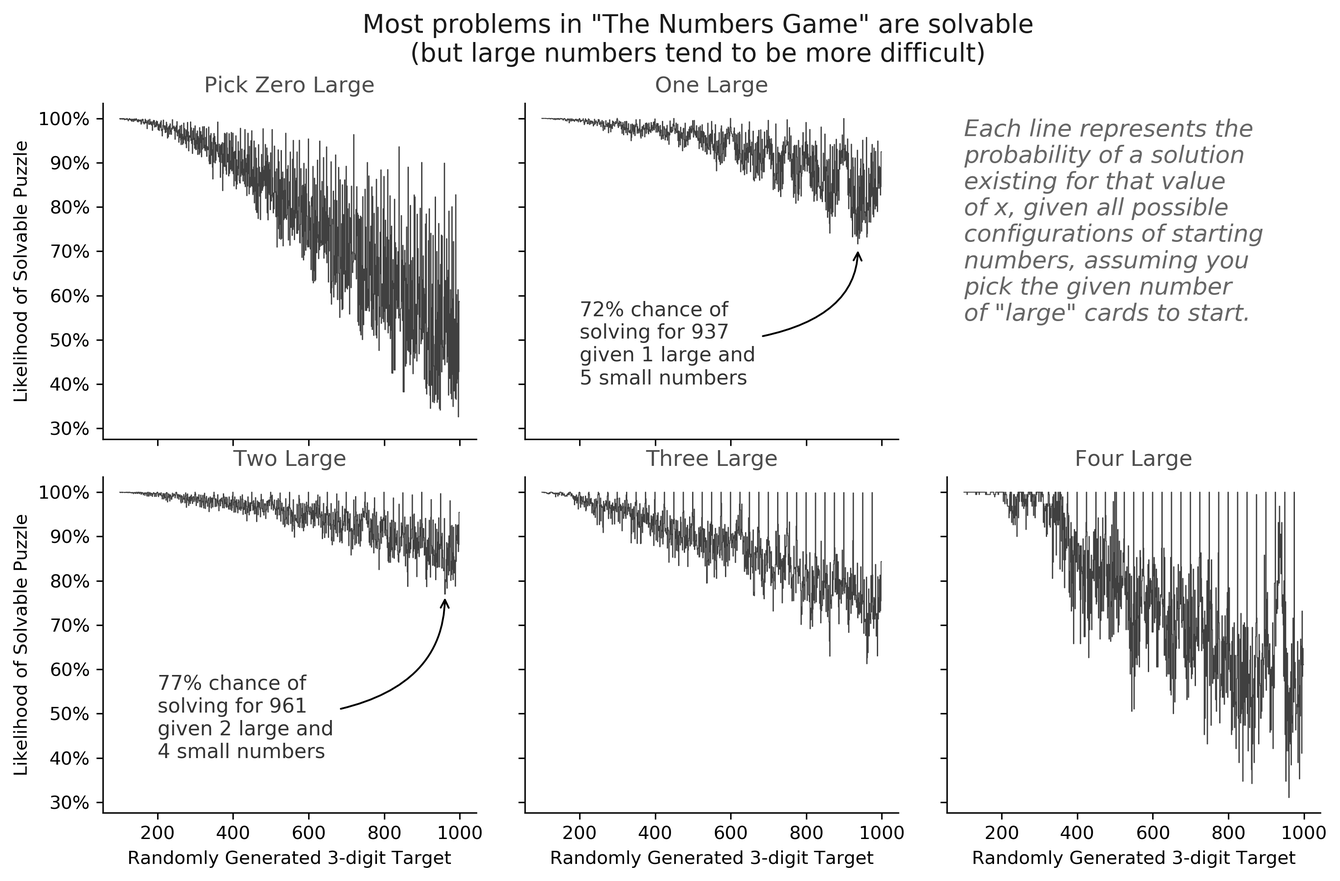
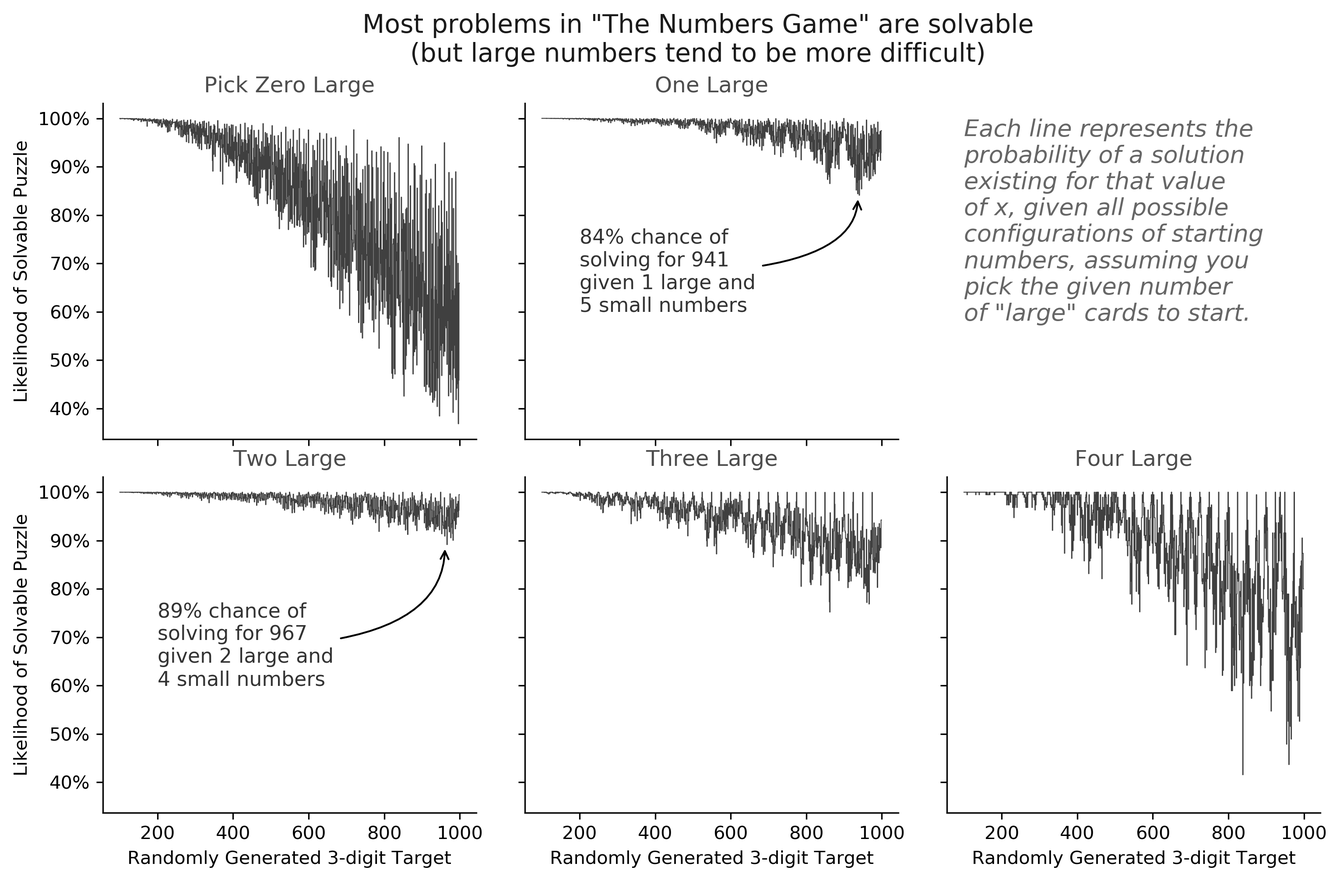
update and code fix for riddler-countdown

diff --git a/riddler-countdown.html b/riddler-countdown.html
@@ -80,10 +80,11 @@ For example, say you ask for one large and five smalls, and you get 2, 3, 7, 8, 
 <br><br>
 <strong>This riddle is twofold. One: What number of “large” cards is most likely to produce a solvable game and what number of “large” cards is least likely to be solvable? Two: What three-digit numbers are most or least likely to be solvable?</strong></p>
 </blockquote>
+<p>Thanks to Laurent Lessard who <a href="https://twitter.com/LaurentLessard/status/1135601818296365064?s=20" target="_blank">pointed out</a> a bug in an earlier version of my code. It's since been updated.</p>
 <h5>Solution</h5>
 <p>This Riddler was quite complicated, but it was also one of my favorites because it combined healthy doses of math, probability, combinatorics, and computer programming. Because of the complexity, I'll start by showing the results, then continue by walking through my solution for readers interested in the details. (Or you can skip to the full code at the bottom of the article!)</p>
 <p>The first part of the question asked us to identify the number of 'large' cards that would be expected to produce the most or least solvable puzzles. Recall that we start the game by selecting either 0, 1, 2, 3, or all 4 large numbers, so let's examine our odds of solving the puzzle given those starting conditions. The table below shows our inputs: the number of large and small numbers, the total number of combinations we could receive, the total number of solvable puzzles that could be created from those inputs, and the percent of solvable puzzles, which is the column we're interested in.</p>
-<p><strong>We should select two large numbers and four small numbers in order to have the best odds of creating a solvable puzzle. If we do so, we create a solvable puzzle roughly 95% of the time. On the other hand, if we wanted to make things difficult for ourselves, we could choose all four large numbers, leaving us with just shy of 80% odds of any valid solution existing.</strong></p>
+<p><strong>We should select two large numbers and four small numbers in order to have the best odds of creating a solvable puzzle. If we do so, we create a solvable puzzle roughly 98% of the time. On the other hand, if we wanted to make things difficult for ourselves, we could choose zero large numbers, leaving us with roughly 84% odds of any valid solution existing.</strong></p>
 <table>
 <thead>
 <tr>
@@ -103,8 +104,8 @@ For example, say you ask for one large and five smalls, and you get 2, 3, 7, 8, 
 <td>1</td>
 <td>38,760</td>
 <td>38,760</td>
-<td>27,619,614</td>
-<td><strong>79.18%</strong></td>
+<td>29,261,974</td>
+<td><strong>83.88%</strong></td>
 </tr>
 <tr>
 <td>1</td>
@@ -112,8 +113,8 @@ For example, say you ask for one large and five smalls, and you get 2, 3, 7, 8, 
 <td>4</td>
 <td>15,504</td>
 <td>62,016</td>
-<td>52,249,824</td>
-<td><strong>93.61%</strong></td>
+<td>54,558,826</td>
+<td><strong>97.75%</strong></td>
 </tr>
 <tr>
 <td>2</td>
@@ -121,8 +122,8 @@ For example, say you ask for one large and five smalls, and you get 2, 3, 7, 8, 
 <td>6</td>
 <td>4845</td>
 <td>29,070</td>
-<td>24,765,395</td>
-<td><strong>94.66%</strong></td>
+<td>25,690,882</td>
+<td><strong>98.20%</strong></td>
 </tr>
 <tr>
 <td>3</td>
@@ -130,8 +131,8 @@ For example, say you ask for one large and five smalls, and you get 2, 3, 7, 8, 
 <td>4</td>
 <td>1140</td>
 <td>4560</td>
-<td>3,636,852</td>
-<td><strong>88.62%</strong></td>
+<td>3,887,884</td>
+<td><strong>94.73%</strong></td>
 </tr>
 <tr>
 <td>4</td>
@@ -139,8 +140,8 @@ For example, say you ask for one large and five smalls, and you get 2, 3, 7, 8, 
 <td>1</td>
 <td>190</td>
 <td>190</td>
-<td>135,068</td>
-<td><strong>78.99%</strong></td>
+<td>154,693</td>
+<td><strong>90.46%</strong></td>
 </tr>
 <tr>
 <td></td>
@@ -148,19 +149,19 @@ For example, say you ask for one large and five smalls, and you get 2, 3, 7, 8, 
 <td></td>
 <td>$average$</td>
 <td>134,596</td>
-<td>108,406,753</td>
-<td><strong>89.49%</strong></td>
+<td>113,554,259</td>
+<td><strong>93.74%</strong></td>
 </tr>
 </tbody>
 </table>
 <p>The second part of the question asked us to identify which three-digit numbers would be more or less likely to be valid solutions. Obviously this depends on our choice of large numbers, so I'll show the likelihood of each number being a valid solution given each of the five initial conditions. In fact, the chart below helps us visualize several key trends.</p>
 <ol>
 <li>We confirm that choosing two large cards gives us the highest average probability of finding a solution. The chart on the bottom left has higher values across all target numbers than any other chart. </li>
-<li>Higher target numbers are harder to solve for. In fact, several values, like 937 and 961 are more difficult to solve, regardless of the number of large cards we choose.</li>
+<li>Higher target numbers are harder to solve for. In fact, several values, like 967 and 863 are more difficult to solve, regardless of the number of large cards we choose.</li>
 <li>"Round" numbers, like 200, 250, 300, etc. are much easier to solve consistently when we choose more large cards. This makes sense, given that we're more likely to find the 50 or 100 card when we select more from that pool, but isn't enough of an incentive to sacrifice the valuable "small" numbers that help us fill in the gaps.</li>
 </ol>
 <p><img class="img-fluid mx-auto d-block" src="../images/20190531-riddler.png"></p>
-<p>Here is a table of the most difficult numbers to solve, given a starting number of large cards. For example, if we choose 1 large card and 5 small cards, and our target number is 937, then across all the different combinations of numbers we could be given, we will be able to solve the puzzle just 77% of the time.</p>
+<p>Here is a table of the most difficult numbers to solve, given a starting number of large cards. For example, if we choose 1 large card and 5 small cards, and our target number is 941, then across all the different combinations of numbers we could be given, we will be able to solve the puzzle just 84% of the time.</p>
 <table>
 <thead>
 <tr>
@@ -173,43 +174,43 @@ For example, say you ask for one large and five smalls, and you get 2, 3, 7, 8, 
 </thead>
 <tbody>
 <tr>
-<td><strong>997, 32.6%</strong></td>
-<td><strong>937, 71.6%</strong></td>
-<td><strong>961, 77.0%</strong></td>
-<td><strong>961, 61.3%</strong></td>
-<td><strong>961, 31.1%</strong></td>
+<td><strong>997, 36.9%</strong></td>
+<td><strong>941, 84.1%</strong></td>
+<td><strong>967, 89.2%</strong></td>
+<td><strong>863, 75.2%</strong></td>
+<td><strong>839, 41.6%</strong></td>
 </tr>
 <tr>
-<td>949, 34.1%</td>
-<td>941, 72.7%</td>
-<td>962, 77.0%</td>
-<td>962, 62.6%</td>
-<td>863, 34.2%</td>
+<td>947, 38.5%</td>
+<td>937, 84.4%</td>
+<td>983, 90.1%</td>
+<td>967, 76.9%</td>
+<td>961, 43.7%</td>
 </tr>
 <tr>
-<td>947, 34.5%</td>
-<td>961, 73.2%</td>
-<td>967, 78.3%</td>
-<td>863, 63.0%</td>
-<td>953, 34.7%</td>
+<td>983, 39.2%</td>
+<td>933, 85.2%</td>
+<td>977, 90.6%</td>
+<td>961, 77.2%</td>
+<td>955, 47.9%</td>
 </tr>
 <tr>
-<td>923, 34.5%</td>
-<td>923, 73.2%</td>
-<td>913, 78.7%</td>
-<td>989, 63.0%</td>
-<td>839, 34.7%</td>
+<td>941, 40.4%</td>
+<td>947, 85.4%</td>
+<td>961, 90.9%</td>
+<td>862, 77.3%</td>
+<td>967, 48.9%</td>
 </tr>
 <tr>
-<td>983, 34.9%</td>
-<td>933, 73.4%</td>
-<td>863, 78.8%</td>
-<td>964, 63.0%</td>
-<td>989, 35.3%</td>
+<td>929, 41.3%</td>
+<td>863, 86.5%</td>
+<td>863, 91.3%</td>
+<td>964, 79.4%</td>
+<td>965, 51.6%</td>
 </tr>
 </tbody>
 </table>
-<p>And here is the list of easiest values to solve. If we choose at least 2 large cards, there are some target values that can be solved with every possible configuration of starting number pools! For example, numbers like 100, 150, 200, and other round numbers become completely solvable once we have enough "large" numbers to work with.</p>
+<p>And here is the list of easiest values to solve. If we choose at least 1 large card, there are some target values that can be solved with every possible configuration of starting numbers! For example, numbers like 100, 150, 200, and other round numbers become completely solvable once we have enough "large" numbers to work with.</p>
 <table>
 <thead>
 <tr>
@@ -222,36 +223,36 @@ For example, say you ask for one large and five smalls, and you get 2, 3, 7, 8, 
 </thead>
 <tbody>
 <tr>
-<td>120, 99.97%</td>
-<td>300, 100.0%</td>
-<td>15 @ 100%</td>
-<td>35 @ 100%</td>
-<td>149 @ 100%</td>
+<td>108, 99.997%</td>
+<td>25 @ 100%</td>
+<td>36 @ 100%</td>
+<td>57 @ 100%</td>
+<td>203 @ 100%</td>
 </tr>
 <tr>
-<td>108, 99.96%</td>
-<td>100, 99.997%</td>
+<td>120, 99.99%</td>
 <td></td>
-<td></td>
-<td></td>
-</tr>
-<tr>
-<td>126, 99.95%</td>
-<td>101, 99.997%</td>
 <td></td>
 <td></td>
 <td></td>
 </tr>
 <tr>
-<td>110, 99.95%</td>
-<td>120, 99.997%</td>
+<td>105, 99.98%</td>
+<td></td>
 <td></td>
 <td></td>
 <td></td>
 </tr>
 <tr>
-<td>105, 99.95%</td>
-<td>600, 99.994%</td>
+<td>104, 99.98%</td>
+<td></td>
+<td></td>
+<td></td>
+<td></td>
+</tr>
+<tr>
+<td>112, 99.98%</td>
+<td></td>
 <td></td>
 <td></td>
 <td></td>
@@ -355,7 +356,7 @@ For example, say you ask for one large and five smalls, and you get 2, 3, 7, 8, 
 </pre></div>
 
 
-<p>For example, the number pool with <code>n_large=1</code> is a list of all 62,016 different six-number pools we could possibly see on the show, such as $(25, 1, 3, 5, 7, 9)$, or $(75, 5, 5, 1, 1, 3)$. Each of those 62,016 number pools has its own solution space: the numbers we could create between 100 and 999 using them. We can create 885 unique target numbers using $(25, 1, 3, 5, 7, 9)$, and just 474 from $(75, 5, 5, 1, 1, 3)$. If it were just those two possibilities, we would say our average probability of success is $\frac{885+474}{2\times{900}} = 75.5\%$. Using our code, we can calculate the probability of solving for all target values starting with all number pools. </p>
+<p>For example, the number pool with <code>n_large=1</code> is a list of all 62,016 different six-number pools we could possibly see on the show, such as $(25, 1, 3, 5, 7, 9)$, or $(75, 5, 5, 1, 1, 3)$. Each of those 62,016 number pools has its own solution space: the numbers we could create between 100 and 999 using them. We can create all 900 unique target numbers using $(25, 1, 3, 5, 7, 9)$, and just 736 from $(75, 5, 5, 1, 1, 3)$. If it were just those two possibilities, we would say our average probability of success is $\frac{900+736}{2\times{900}} = 90.9\%$. Using our code, we can calculate the probability of solving for all target values starting with all number pools. </p>
 <div class="highlight"><pre><span></span><span class="k">def</span> <span class="nf">solvable_percent</span><span class="p">(</span><span class="n">n_large</span><span class="p">,</span> <span class="n">total</span><span class="o">=</span><span class="mi">6</span><span class="p">,</span> <span class="n">low</span><span class="o">=</span><span class="mi">100</span><span class="p">,</span> <span class="n">high</span><span class="o">=</span><span class="mi">999</span><span class="p">):</span>
     <span class="sd">&quot;&quot;&quot;</span>
 <span class="sd">    Returns the percent of random targets that can be solved</span>
@@ -371,14 +372,14 @@ For example, say you ask for one large and five smalls, and you get 2, 3, 7, 8, 
     <span class="k">return</span> <span class="n">numerator</span> <span class="o">/</span> <span class="n">denominator</span>
 
 <span class="o">&gt;&gt;&gt;</span> <span class="n">solvable_percent</span><span class="p">(</span><span class="n">n_large</span><span class="o">=</span><span class="mi">2</span><span class="p">)</span>
-<span class="mf">0.9465808584642434</span>
+<span class="mf">0.9819547452509269</span>
 </pre></div>
 
 
 <p>And this function, built slowly from its humble roots of comparing two numbers, allows us to solve the problem! We simply call this function with a given number of large cards, and it returns the likelihood that we would see a solvable puzzle from all possible number pools and random targets. Importantly, this is an exact solution - no simulation required! </p>
 <p>The second part of the question asked us to identify the target values that were most likely to be solvable. Up to this point, we didn't particularly care "how solvable" a target value was; we only cared that there was a way to solve it. But using our functions from above, we can tally the number of target values that are most and least likely to occur given our starting number pools, and our work here is done. The full code is available below.</p>
 <h5>Full Code</h5>
-<p>This was an extremely fun problem to work on, and finding a way to explore the hundreds of millions of combinations simply and quickly was a challenge. I think there are a few further optimizations to explore, and perhaps some functions to rename, now that I know how everything should work, but the process of building this was extremely enjoyable. Let me know if you find ways to improve this!</p>
+<p>This was an extremely fun problem to work on, and finding a way to explore the hundreds of millions of combinations simply and quickly was a challenge. There are certainly further optimizations to explore, such as simplifying the code for the four, five and six functions, now that I know how everything should work. But the process of building this was extremely enjoyable. Let me know if you find ways to improve this!</p>
 <div class="highlight"><pre><span></span><span class="c1"># -*- coding: utf-8 -*-</span>
 <span class="sd">&quot;&quot;&quot;</span>
 <span class="sd">Solves the Riddler Classic from May 31, 2019</span>
@@ -431,6 +432,10 @@ For example, say you ask for one large and five smalls, and you get 2, 3, 7, 8, 
         <span class="o">*</span><span class="p">[</span><span class="n">two</span><span class="p">(</span><span class="n">x</span><span class="p">,</span> <span class="n">b</span><span class="p">)</span> <span class="k">for</span> <span class="n">x</span> <span class="ow">in</span> <span class="n">three</span><span class="p">(</span><span class="n">c</span><span class="p">,</span> <span class="n">d</span><span class="p">,</span> <span class="n">a</span><span class="p">)],</span>
         <span class="o">*</span><span class="p">[</span><span class="n">two</span><span class="p">(</span><span class="n">x</span><span class="p">,</span> <span class="n">c</span><span class="p">)</span> <span class="k">for</span> <span class="n">x</span> <span class="ow">in</span> <span class="n">three</span><span class="p">(</span><span class="n">d</span><span class="p">,</span> <span class="n">a</span><span class="p">,</span> <span class="n">b</span><span class="p">)],</span>
         <span class="o">*</span><span class="p">[</span><span class="n">two</span><span class="p">(</span><span class="n">x</span><span class="p">,</span> <span class="n">d</span><span class="p">)</span> <span class="k">for</span> <span class="n">x</span> <span class="ow">in</span> <span class="n">three</span><span class="p">(</span><span class="n">a</span><span class="p">,</span> <span class="n">b</span><span class="p">,</span> <span class="n">c</span><span class="p">)],</span>
+
+        <span class="o">*</span><span class="p">[</span><span class="n">two</span><span class="p">(</span><span class="n">x</span><span class="p">,</span> <span class="n">y</span><span class="p">)</span> <span class="k">for</span> <span class="n">x</span> <span class="ow">in</span> <span class="n">two</span><span class="p">(</span><span class="n">a</span><span class="p">,</span> <span class="n">b</span><span class="p">)</span> <span class="k">for</span> <span class="n">y</span> <span class="ow">in</span> <span class="n">two</span><span class="p">(</span><span class="n">c</span><span class="p">,</span> <span class="n">d</span><span class="p">)],</span>
+        <span class="o">*</span><span class="p">[</span><span class="n">two</span><span class="p">(</span><span class="n">x</span><span class="p">,</span> <span class="n">y</span><span class="p">)</span> <span class="k">for</span> <span class="n">x</span> <span class="ow">in</span> <span class="n">two</span><span class="p">(</span><span class="n">a</span><span class="p">,</span> <span class="n">c</span><span class="p">)</span> <span class="k">for</span> <span class="n">y</span> <span class="ow">in</span> <span class="n">two</span><span class="p">(</span><span class="n">b</span><span class="p">,</span> <span class="n">d</span><span class="p">)],</span>
+        <span class="o">*</span><span class="p">[</span><span class="n">two</span><span class="p">(</span><span class="n">x</span><span class="p">,</span> <span class="n">y</span><span class="p">)</span> <span class="k">for</span> <span class="n">x</span> <span class="ow">in</span> <span class="n">two</span><span class="p">(</span><span class="n">a</span><span class="p">,</span> <span class="n">d</span><span class="p">)</span> <span class="k">for</span> <span class="n">y</span> <span class="ow">in</span> <span class="n">two</span><span class="p">(</span><span class="n">b</span><span class="p">,</span> <span class="n">c</span><span class="p">)],</span>
     <span class="p">])</span>
 
 <span class="nd">@lru_cache</span><span class="p">(</span><span class="n">maxsize</span><span class="o">=</span><span class="bp">None</span><span class="p">)</span>
@@ -441,6 +446,17 @@ For example, say you ask for one large and five smalls, and you get 2, 3, 7, 8, 
         <span class="o">*</span><span class="p">[</span><span class="n">two</span><span class="p">(</span><span class="n">x</span><span class="p">,</span> <span class="n">c</span><span class="p">)</span> <span class="k">for</span> <span class="n">x</span> <span class="ow">in</span> <span class="n">four</span><span class="p">(</span><span class="n">d</span><span class="p">,</span> <span class="n">e</span><span class="p">,</span> <span class="n">a</span><span class="p">,</span> <span class="n">b</span><span class="p">)],</span>
         <span class="o">*</span><span class="p">[</span><span class="n">two</span><span class="p">(</span><span class="n">x</span><span class="p">,</span> <span class="n">d</span><span class="p">)</span> <span class="k">for</span> <span class="n">x</span> <span class="ow">in</span> <span class="n">four</span><span class="p">(</span><span class="n">e</span><span class="p">,</span> <span class="n">a</span><span class="p">,</span> <span class="n">b</span><span class="p">,</span> <span class="n">c</span><span class="p">)],</span>
         <span class="o">*</span><span class="p">[</span><span class="n">two</span><span class="p">(</span><span class="n">x</span><span class="p">,</span> <span class="n">e</span><span class="p">)</span> <span class="k">for</span> <span class="n">x</span> <span class="ow">in</span> <span class="n">four</span><span class="p">(</span><span class="n">a</span><span class="p">,</span> <span class="n">b</span><span class="p">,</span> <span class="n">c</span><span class="p">,</span> <span class="n">d</span><span class="p">)],</span>
+
+        <span class="o">*</span><span class="p">[</span><span class="n">two</span><span class="p">(</span><span class="n">x</span><span class="p">,</span> <span class="n">y</span><span class="p">)</span> <span class="k">for</span> <span class="n">x</span> <span class="ow">in</span> <span class="n">two</span><span class="p">(</span><span class="n">a</span><span class="p">,</span> <span class="n">b</span><span class="p">)</span> <span class="k">for</span> <span class="n">y</span> <span class="ow">in</span> <span class="n">three</span><span class="p">(</span><span class="n">c</span><span class="p">,</span> <span class="n">d</span><span class="p">,</span> <span class="n">e</span><span class="p">)],</span>
+        <span class="o">*</span><span class="p">[</span><span class="n">two</span><span class="p">(</span><span class="n">x</span><span class="p">,</span> <span class="n">y</span><span class="p">)</span> <span class="k">for</span> <span class="n">x</span> <span class="ow">in</span> <span class="n">two</span><span class="p">(</span><span class="n">a</span><span class="p">,</span> <span class="n">c</span><span class="p">)</span> <span class="k">for</span> <span class="n">y</span> <span class="ow">in</span> <span class="n">three</span><span class="p">(</span><span class="n">b</span><span class="p">,</span> <span class="n">d</span><span class="p">,</span> <span class="n">e</span><span class="p">)],</span>
+        <span class="o">*</span><span class="p">[</span><span class="n">two</span><span class="p">(</span><span class="n">x</span><span class="p">,</span> <span class="n">y</span><span class="p">)</span> <span class="k">for</span> <span class="n">x</span> <span class="ow">in</span> <span class="n">two</span><span class="p">(</span><span class="n">a</span><span class="p">,</span> <span class="n">d</span><span class="p">)</span> <span class="k">for</span> <span class="n">y</span> <span class="ow">in</span> <span class="n">three</span><span class="p">(</span><span class="n">b</span><span class="p">,</span> <span class="n">c</span><span class="p">,</span> <span class="n">e</span><span class="p">)],</span>
+        <span class="o">*</span><span class="p">[</span><span class="n">two</span><span class="p">(</span><span class="n">x</span><span class="p">,</span> <span class="n">y</span><span class="p">)</span> <span class="k">for</span> <span class="n">x</span> <span class="ow">in</span> <span class="n">two</span><span class="p">(</span><span class="n">a</span><span class="p">,</span> <span class="n">e</span><span class="p">)</span> <span class="k">for</span> <span class="n">y</span> <span class="ow">in</span> <span class="n">three</span><span class="p">(</span><span class="n">b</span><span class="p">,</span> <span class="n">c</span><span class="p">,</span> <span class="n">d</span><span class="p">)],</span>
+        <span class="o">*</span><span class="p">[</span><span class="n">two</span><span class="p">(</span><span class="n">x</span><span class="p">,</span> <span class="n">y</span><span class="p">)</span> <span class="k">for</span> <span class="n">x</span> <span class="ow">in</span> <span class="n">two</span><span class="p">(</span><span class="n">b</span><span class="p">,</span> <span class="n">c</span><span class="p">)</span> <span class="k">for</span> <span class="n">y</span> <span class="ow">in</span> <span class="n">three</span><span class="p">(</span><span class="n">a</span><span class="p">,</span> <span class="n">d</span><span class="p">,</span> <span class="n">e</span><span class="p">)],</span>
+        <span class="o">*</span><span class="p">[</span><span class="n">two</span><span class="p">(</span><span class="n">x</span><span class="p">,</span> <span class="n">y</span><span class="p">)</span> <span class="k">for</span> <span class="n">x</span> <span class="ow">in</span> <span class="n">two</span><span class="p">(</span><span class="n">b</span><span class="p">,</span> <span class="n">d</span><span class="p">)</span> <span class="k">for</span> <span class="n">y</span> <span class="ow">in</span> <span class="n">three</span><span class="p">(</span><span class="n">a</span><span class="p">,</span> <span class="n">c</span><span class="p">,</span> <span class="n">e</span><span class="p">)],</span>
+        <span class="o">*</span><span class="p">[</span><span class="n">two</span><span class="p">(</span><span class="n">x</span><span class="p">,</span> <span class="n">y</span><span class="p">)</span> <span class="k">for</span> <span class="n">x</span> <span class="ow">in</span> <span class="n">two</span><span class="p">(</span><span class="n">b</span><span class="p">,</span> <span class="n">e</span><span class="p">)</span> <span class="k">for</span> <span class="n">y</span> <span class="ow">in</span> <span class="n">three</span><span class="p">(</span><span class="n">a</span><span class="p">,</span> <span class="n">c</span><span class="p">,</span> <span class="n">d</span><span class="p">)],</span>
+        <span class="o">*</span><span class="p">[</span><span class="n">two</span><span class="p">(</span><span class="n">x</span><span class="p">,</span> <span class="n">y</span><span class="p">)</span> <span class="k">for</span> <span class="n">x</span> <span class="ow">in</span> <span class="n">two</span><span class="p">(</span><span class="n">c</span><span class="p">,</span> <span class="n">d</span><span class="p">)</span> <span class="k">for</span> <span class="n">y</span> <span class="ow">in</span> <span class="n">three</span><span class="p">(</span><span class="n">a</span><span class="p">,</span> <span class="n">b</span><span class="p">,</span> <span class="n">e</span><span class="p">)],</span>
+        <span class="o">*</span><span class="p">[</span><span class="n">two</span><span class="p">(</span><span class="n">x</span><span class="p">,</span> <span class="n">y</span><span class="p">)</span> <span class="k">for</span> <span class="n">x</span> <span class="ow">in</span> <span class="n">two</span><span class="p">(</span><span class="n">c</span><span class="p">,</span> <span class="n">e</span><span class="p">)</span> <span class="k">for</span> <span class="n">y</span> <span class="ow">in</span> <span class="n">three</span><span class="p">(</span><span class="n">a</span><span class="p">,</span> <span class="n">b</span><span class="p">,</span> <span class="n">d</span><span class="p">)],</span>
+        <span class="o">*</span><span class="p">[</span><span class="n">two</span><span class="p">(</span><span class="n">x</span><span class="p">,</span> <span class="n">y</span><span class="p">)</span> <span class="k">for</span> <span class="n">x</span> <span class="ow">in</span> <span class="n">two</span><span class="p">(</span><span class="n">d</span><span class="p">,</span> <span class="n">e</span><span class="p">)</span> <span class="k">for</span> <span class="n">y</span> <span class="ow">in</span> <span class="n">three</span><span class="p">(</span><span class="n">a</span><span class="p">,</span> <span class="n">b</span><span class="p">,</span> <span class="n">c</span><span class="p">)],</span>
     <span class="p">])</span>
 
 <span class="nd">@lru_cache</span><span class="p">(</span><span class="n">maxsize</span><span class="o">=</span><span class="bp">None</span><span class="p">)</span>
@@ -452,6 +468,33 @@ For example, say you ask for one large and five smalls, and you get 2, 3, 7, 8, 
         <span class="o">*</span><span class="p">[</span><span class="n">two</span><span class="p">(</span><span class="n">x</span><span class="p">,</span> <span class="n">d</span><span class="p">)</span> <span class="k">for</span> <span class="n">x</span> <span class="ow">in</span> <span class="n">five</span><span class="p">(</span><span class="n">e</span><span class="p">,</span> <span class="n">f</span><span class="p">,</span> <span class="n">a</span><span class="p">,</span> <span class="n">b</span><span class="p">,</span> <span class="n">c</span><span class="p">)],</span>
         <span class="o">*</span><span class="p">[</span><span class="n">two</span><span class="p">(</span><span class="n">x</span><span class="p">,</span> <span class="n">e</span><span class="p">)</span> <span class="k">for</span> <span class="n">x</span> <span class="ow">in</span> <span class="n">five</span><span class="p">(</span><span class="n">f</span><span class="p">,</span> <span class="n">a</span><span class="p">,</span> <span class="n">b</span><span class="p">,</span> <span class="n">c</span><span class="p">,</span> <span class="n">d</span><span class="p">)],</span>
         <span class="o">*</span><span class="p">[</span><span class="n">two</span><span class="p">(</span><span class="n">x</span><span class="p">,</span> <span class="n">f</span><span class="p">)</span> <span class="k">for</span> <span class="n">x</span> <span class="ow">in</span> <span class="n">five</span><span class="p">(</span><span class="n">a</span><span class="p">,</span> <span class="n">b</span><span class="p">,</span> <span class="n">c</span><span class="p">,</span> <span class="n">d</span><span class="p">,</span> <span class="n">e</span><span class="p">)],</span>
+
+        <span class="o">*</span><span class="p">[</span><span class="n">two</span><span class="p">(</span><span class="n">x</span><span class="p">,</span> <span class="n">y</span><span class="p">)</span> <span class="k">for</span> <span class="n">x</span> <span class="ow">in</span> <span class="n">two</span><span class="p">(</span><span class="n">a</span><span class="p">,</span> <span class="n">b</span><span class="p">)</span> <span class="k">for</span> <span class="n">y</span> <span class="ow">in</span> <span class="n">four</span><span class="p">(</span><span class="n">c</span><span class="p">,</span> <span class="n">d</span><span class="p">,</span> <span class="n">e</span><span class="p">,</span> <span class="n">f</span><span class="p">)],</span>
+        <span class="o">*</span><span class="p">[</span><span class="n">two</span><span class="p">(</span><span class="n">x</span><span class="p">,</span> <span class="n">y</span><span class="p">)</span> <span class="k">for</span> <span class="n">x</span> <span class="ow">in</span> <span class="n">two</span><span class="p">(</span><span class="n">a</span><span class="p">,</span> <span class="n">c</span><span class="p">)</span> <span class="k">for</span> <span class="n">y</span> <span class="ow">in</span> <span class="n">four</span><span class="p">(</span><span class="n">b</span><span class="p">,</span> <span class="n">d</span><span class="p">,</span> <span class="n">e</span><span class="p">,</span> <span class="n">f</span><span class="p">)],</span>
+        <span class="o">*</span><span class="p">[</span><span class="n">two</span><span class="p">(</span><span class="n">x</span><span class="p">,</span> <span class="n">y</span><span class="p">)</span> <span class="k">for</span> <span class="n">x</span> <span class="ow">in</span> <span class="n">two</span><span class="p">(</span><span class="n">a</span><span class="p">,</span> <span class="n">d</span><span class="p">)</span> <span class="k">for</span> <span class="n">y</span> <span class="ow">in</span> <span class="n">four</span><span class="p">(</span><span class="n">b</span><span class="p">,</span> <span class="n">c</span><span class="p">,</span> <span class="n">e</span><span class="p">,</span> <span class="n">f</span><span class="p">)],</span>
+        <span class="o">*</span><span class="p">[</span><span class="n">two</span><span class="p">(</span><span class="n">x</span><span class="p">,</span> <span class="n">y</span><span class="p">)</span> <span class="k">for</span> <span class="n">x</span> <span class="ow">in</span> <span class="n">two</span><span class="p">(</span><span class="n">a</span><span class="p">,</span> <span class="n">e</span><span class="p">)</span> <span class="k">for</span> <span class="n">y</span> <span class="ow">in</span> <span class="n">four</span><span class="p">(</span><span class="n">b</span><span class="p">,</span> <span class="n">c</span><span class="p">,</span> <span class="n">d</span><span class="p">,</span> <span class="n">f</span><span class="p">)],</span>
+        <span class="o">*</span><span class="p">[</span><span class="n">two</span><span class="p">(</span><span class="n">x</span><span class="p">,</span> <span class="n">y</span><span class="p">)</span> <span class="k">for</span> <span class="n">x</span> <span class="ow">in</span> <span class="n">two</span><span class="p">(</span><span class="n">a</span><span class="p">,</span> <span class="n">f</span><span class="p">)</span> <span class="k">for</span> <span class="n">y</span> <span class="ow">in</span> <span class="n">four</span><span class="p">(</span><span class="n">b</span><span class="p">,</span> <span class="n">c</span><span class="p">,</span> <span class="n">d</span><span class="p">,</span> <span class="n">e</span><span class="p">)],</span>
+        <span class="o">*</span><span class="p">[</span><span class="n">two</span><span class="p">(</span><span class="n">x</span><span class="p">,</span> <span class="n">y</span><span class="p">)</span> <span class="k">for</span> <span class="n">x</span> <span class="ow">in</span> <span class="n">two</span><span class="p">(</span><span class="n">b</span><span class="p">,</span> <span class="n">c</span><span class="p">)</span> <span class="k">for</span> <span class="n">y</span> <span class="ow">in</span> <span class="n">four</span><span class="p">(</span><span class="n">a</span><span class="p">,</span> <span class="n">d</span><span class="p">,</span> <span class="n">e</span><span class="p">,</span> <span class="n">f</span><span class="p">)],</span>
+        <span class="o">*</span><span class="p">[</span><span class="n">two</span><span class="p">(</span><span class="n">x</span><span class="p">,</span> <span class="n">y</span><span class="p">)</span> <span class="k">for</span> <span class="n">x</span> <span class="ow">in</span> <span class="n">two</span><span class="p">(</span><span class="n">b</span><span class="p">,</span> <span class="n">d</span><span class="p">)</span> <span class="k">for</span> <span class="n">y</span> <span class="ow">in</span> <span class="n">four</span><span class="p">(</span><span class="n">a</span><span class="p">,</span> <span class="n">c</span><span class="p">,</span> <span class="n">e</span><span class="p">,</span> <span class="n">f</span><span class="p">)],</span>
+        <span class="o">*</span><span class="p">[</span><span class="n">two</span><span class="p">(</span><span class="n">x</span><span class="p">,</span> <span class="n">y</span><span class="p">)</span> <span class="k">for</span> <span class="n">x</span> <span class="ow">in</span> <span class="n">two</span><span class="p">(</span><span class="n">b</span><span class="p">,</span> <span class="n">e</span><span class="p">)</span> <span class="k">for</span> <span class="n">y</span> <span class="ow">in</span> <span class="n">four</span><span class="p">(</span><span class="n">a</span><span class="p">,</span> <span class="n">c</span><span class="p">,</span> <span class="n">d</span><span class="p">,</span> <span class="n">f</span><span class="p">)],</span>
+        <span class="o">*</span><span class="p">[</span><span class="n">two</span><span class="p">(</span><span class="n">x</span><span class="p">,</span> <span class="n">y</span><span class="p">)</span> <span class="k">for</span> <span class="n">x</span> <span class="ow">in</span> <span class="n">two</span><span class="p">(</span><span class="n">b</span><span class="p">,</span> <span class="n">f</span><span class="p">)</span> <span class="k">for</span> <span class="n">y</span> <span class="ow">in</span> <span class="n">four</span><span class="p">(</span><span class="n">a</span><span class="p">,</span> <span class="n">c</span><span class="p">,</span> <span class="n">d</span><span class="p">,</span> <span class="n">e</span><span class="p">)],</span>
+        <span class="o">*</span><span class="p">[</span><span class="n">two</span><span class="p">(</span><span class="n">x</span><span class="p">,</span> <span class="n">y</span><span class="p">)</span> <span class="k">for</span> <span class="n">x</span> <span class="ow">in</span> <span class="n">two</span><span class="p">(</span><span class="n">c</span><span class="p">,</span> <span class="n">d</span><span class="p">)</span> <span class="k">for</span> <span class="n">y</span> <span class="ow">in</span> <span class="n">four</span><span class="p">(</span><span class="n">a</span><span class="p">,</span> <span class="n">b</span><span class="p">,</span> <span class="n">e</span><span class="p">,</span> <span class="n">f</span><span class="p">)],</span>
+        <span class="o">*</span><span class="p">[</span><span class="n">two</span><span class="p">(</span><span class="n">x</span><span class="p">,</span> <span class="n">y</span><span class="p">)</span> <span class="k">for</span> <span class="n">x</span> <span class="ow">in</span> <span class="n">two</span><span class="p">(</span><span class="n">c</span><span class="p">,</span> <span class="n">e</span><span class="p">)</span> <span class="k">for</span> <span class="n">y</span> <span class="ow">in</span> <span class="n">four</span><span class="p">(</span><span class="n">a</span><span class="p">,</span> <span class="n">b</span><span class="p">,</span> <span class="n">d</span><span class="p">,</span> <span class="n">f</span><span class="p">)],</span>
+        <span class="o">*</span><span class="p">[</span><span class="n">two</span><span class="p">(</span><span class="n">x</span><span class="p">,</span> <span class="n">y</span><span class="p">)</span> <span class="k">for</span> <span class="n">x</span> <span class="ow">in</span> <span class="n">two</span><span class="p">(</span><span class="n">c</span><span class="p">,</span> <span class="n">f</span><span class="p">)</span> <span class="k">for</span> <span class="n">y</span> <span class="ow">in</span> <span class="n">four</span><span class="p">(</span><span class="n">a</span><span class="p">,</span> <span class="n">b</span><span class="p">,</span> <span class="n">d</span><span class="p">,</span> <span class="n">e</span><span class="p">)],</span>
+        <span class="o">*</span><span class="p">[</span><span class="n">two</span><span class="p">(</span><span class="n">x</span><span class="p">,</span> <span class="n">y</span><span class="p">)</span> <span class="k">for</span> <span class="n">x</span> <span class="ow">in</span> <span class="n">two</span><span class="p">(</span><span class="n">d</span><span class="p">,</span> <span class="n">e</span><span class="p">)</span> <span class="k">for</span> <span class="n">y</span> <span class="ow">in</span> <span class="n">four</span><span class="p">(</span><span class="n">a</span><span class="p">,</span> <span class="n">b</span><span class="p">,</span> <span class="n">c</span><span class="p">,</span> <span class="n">f</span><span class="p">)],</span>
+        <span class="o">*</span><span class="p">[</span><span class="n">two</span><span class="p">(</span><span class="n">x</span><span class="p">,</span> <span class="n">y</span><span class="p">)</span> <span class="k">for</span> <span class="n">x</span> <span class="ow">in</span> <span class="n">two</span><span class="p">(</span><span class="n">d</span><span class="p">,</span> <span class="n">f</span><span class="p">)</span> <span class="k">for</span> <span class="n">y</span> <span class="ow">in</span> <span class="n">four</span><span class="p">(</span><span class="n">a</span><span class="p">,</span> <span class="n">b</span><span class="p">,</span> <span class="n">c</span><span class="p">,</span> <span class="n">e</span><span class="p">)],</span>
+        <span class="o">*</span><span class="p">[</span><span class="n">two</span><span class="p">(</span><span class="n">x</span><span class="p">,</span> <span class="n">y</span><span class="p">)</span> <span class="k">for</span> <span class="n">x</span> <span class="ow">in</span> <span class="n">two</span><span class="p">(</span><span class="n">e</span><span class="p">,</span> <span class="n">f</span><span class="p">)</span> <span class="k">for</span> <span class="n">y</span> <span class="ow">in</span> <span class="n">four</span><span class="p">(</span><span class="n">a</span><span class="p">,</span> <span class="n">b</span><span class="p">,</span> <span class="n">c</span><span class="p">,</span> <span class="n">d</span><span class="p">)],</span>
+
+        <span class="o">*</span><span class="p">[</span><span class="n">two</span><span class="p">(</span><span class="n">x</span><span class="p">,</span> <span class="n">y</span><span class="p">)</span> <span class="k">for</span> <span class="n">x</span> <span class="ow">in</span> <span class="n">three</span><span class="p">(</span><span class="n">a</span><span class="p">,</span> <span class="n">b</span><span class="p">,</span> <span class="n">c</span><span class="p">)</span> <span class="k">for</span> <span class="n">y</span> <span class="ow">in</span> <span class="n">three</span><span class="p">(</span><span class="n">d</span><span class="p">,</span> <span class="n">e</span><span class="p">,</span> <span class="n">f</span><span class="p">)],</span>
+        <span class="o">*</span><span class="p">[</span><span class="n">two</span><span class="p">(</span><span class="n">x</span><span class="p">,</span> <span class="n">y</span><span class="p">)</span> <span class="k">for</span> <span class="n">x</span> <span class="ow">in</span> <span class="n">three</span><span class="p">(</span><span class="n">a</span><span class="p">,</span> <span class="n">b</span><span class="p">,</span> <span class="n">d</span><span class="p">)</span> <span class="k">for</span> <span class="n">y</span> <span class="ow">in</span> <span class="n">three</span><span class="p">(</span><span class="n">c</span><span class="p">,</span> <span class="n">e</span><span class="p">,</span> <span class="n">f</span><span class="p">)],</span>
+        <span class="o">*</span><span class="p">[</span><span class="n">two</span><span class="p">(</span><span class="n">x</span><span class="p">,</span> <span class="n">y</span><span class="p">)</span> <span class="k">for</span> <span class="n">x</span> <span class="ow">in</span> <span class="n">three</span><span class="p">(</span><span class="n">a</span><span class="p">,</span> <span class="n">b</span><span class="p">,</span> <span class="n">e</span><span class="p">)</span> <span class="k">for</span> <span class="n">y</span> <span class="ow">in</span> <span class="n">three</span><span class="p">(</span><span class="n">c</span><span class="p">,</span> <span class="n">d</span><span class="p">,</span> <span class="n">f</span><span class="p">)],</span>
+        <span class="o">*</span><span class="p">[</span><span class="n">two</span><span class="p">(</span><span class="n">x</span><span class="p">,</span> <span class="n">y</span><span class="p">)</span> <span class="k">for</span> <span class="n">x</span> <span class="ow">in</span> <span class="n">three</span><span class="p">(</span><span class="n">a</span><span class="p">,</span> <span class="n">b</span><span class="p">,</span> <span class="n">f</span><span class="p">)</span> <span class="k">for</span> <span class="n">y</span> <span class="ow">in</span> <span class="n">three</span><span class="p">(</span><span class="n">c</span><span class="p">,</span> <span class="n">d</span><span class="p">,</span> <span class="n">e</span><span class="p">)],</span>
+        <span class="o">*</span><span class="p">[</span><span class="n">two</span><span class="p">(</span><span class="n">x</span><span class="p">,</span> <span class="n">y</span><span class="p">)</span> <span class="k">for</span> <span class="n">x</span> <span class="ow">in</span> <span class="n">three</span><span class="p">(</span><span class="n">a</span><span class="p">,</span> <span class="n">c</span><span class="p">,</span> <span class="n">d</span><span class="p">)</span> <span class="k">for</span> <span class="n">y</span> <span class="ow">in</span> <span class="n">three</span><span class="p">(</span><span class="n">b</span><span class="p">,</span> <span class="n">e</span><span class="p">,</span> <span class="n">f</span><span class="p">)],</span>
+        <span class="o">*</span><span class="p">[</span><span class="n">two</span><span class="p">(</span><span class="n">x</span><span class="p">,</span> <span class="n">y</span><span class="p">)</span> <span class="k">for</span> <span class="n">x</span> <span class="ow">in</span> <span class="n">three</span><span class="p">(</span><span class="n">a</span><span class="p">,</span> <span class="n">c</span><span class="p">,</span> <span class="n">e</span><span class="p">)</span> <span class="k">for</span> <span class="n">y</span> <span class="ow">in</span> <span class="n">three</span><span class="p">(</span><span class="n">b</span><span class="p">,</span> <span class="n">d</span><span class="p">,</span> <span class="n">f</span><span class="p">)],</span>
+        <span class="o">*</span><span class="p">[</span><span class="n">two</span><span class="p">(</span><span class="n">x</span><span class="p">,</span> <span class="n">y</span><span class="p">)</span> <span class="k">for</span> <span class="n">x</span> <span class="ow">in</span> <span class="n">three</span><span class="p">(</span><span class="n">a</span><span class="p">,</span> <span class="n">c</span><span class="p">,</span> <span class="n">f</span><span class="p">)</span> <span class="k">for</span> <span class="n">y</span> <span class="ow">in</span> <span class="n">three</span><span class="p">(</span><span class="n">b</span><span class="p">,</span> <span class="n">d</span><span class="p">,</span> <span class="n">e</span><span class="p">)],</span>
+        <span class="o">*</span><span class="p">[</span><span class="n">two</span><span class="p">(</span><span class="n">x</span><span class="p">,</span> <span class="n">y</span><span class="p">)</span> <span class="k">for</span> <span class="n">x</span> <span class="ow">in</span> <span class="n">three</span><span class="p">(</span><span class="n">a</span><span class="p">,</span> <span class="n">d</span><span class="p">,</span> <span class="n">e</span><span class="p">)</span> <span class="k">for</span> <span class="n">y</span> <span class="ow">in</span> <span class="n">three</span><span class="p">(</span><span class="n">b</span><span class="p">,</span> <span class="n">c</span><span class="p">,</span> <span class="n">f</span><span class="p">)],</span>
+        <span class="o">*</span><span class="p">[</span><span class="n">two</span><span class="p">(</span><span class="n">x</span><span class="p">,</span> <span class="n">y</span><span class="p">)</span> <span class="k">for</span> <span class="n">x</span> <span class="ow">in</span> <span class="n">three</span><span class="p">(</span><span class="n">a</span><span class="p">,</span> <span class="n">d</span><span class="p">,</span> <span class="n">f</span><span class="p">)</span> <span class="k">for</span> <span class="n">y</span> <span class="ow">in</span> <span class="n">three</span><span class="p">(</span><span class="n">b</span><span class="p">,</span> <span class="n">c</span><span class="p">,</span> <span class="n">e</span><span class="p">)],</span>
+        <span class="o">*</span><span class="p">[</span><span class="n">two</span><span class="p">(</span><span class="n">x</span><span class="p">,</span> <span class="n">y</span><span class="p">)</span> <span class="k">for</span> <span class="n">x</span> <span class="ow">in</span> <span class="n">three</span><span class="p">(</span><span class="n">a</span><span class="p">,</span> <span class="n">e</span><span class="p">,</span> <span class="n">f</span><span class="p">)</span> <span class="k">for</span> <span class="n">y</span> <span class="ow">in</span> <span class="n">three</span><span class="p">(</span><span class="n">b</span><span class="p">,</span> <span class="n">c</span><span class="p">,</span> <span class="n">d</span><span class="p">)],</span>
     <span class="p">])</span>
 
 <span class="nd">@lru_cache</span><span class="p">(</span><span class="n">maxsize</span><span class="o">=</span><span class="bp">None</span><span class="p">)</span>
